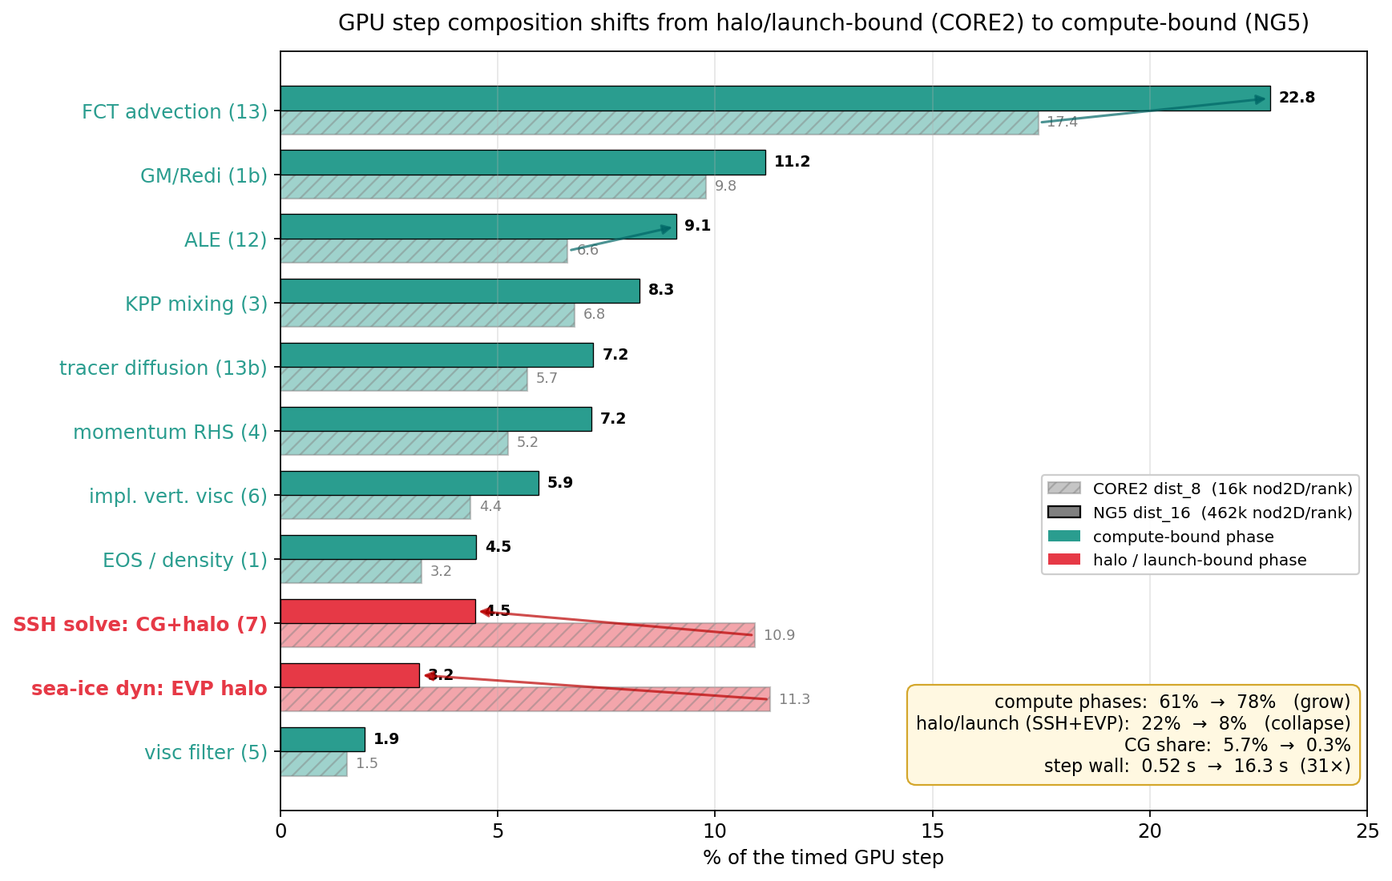
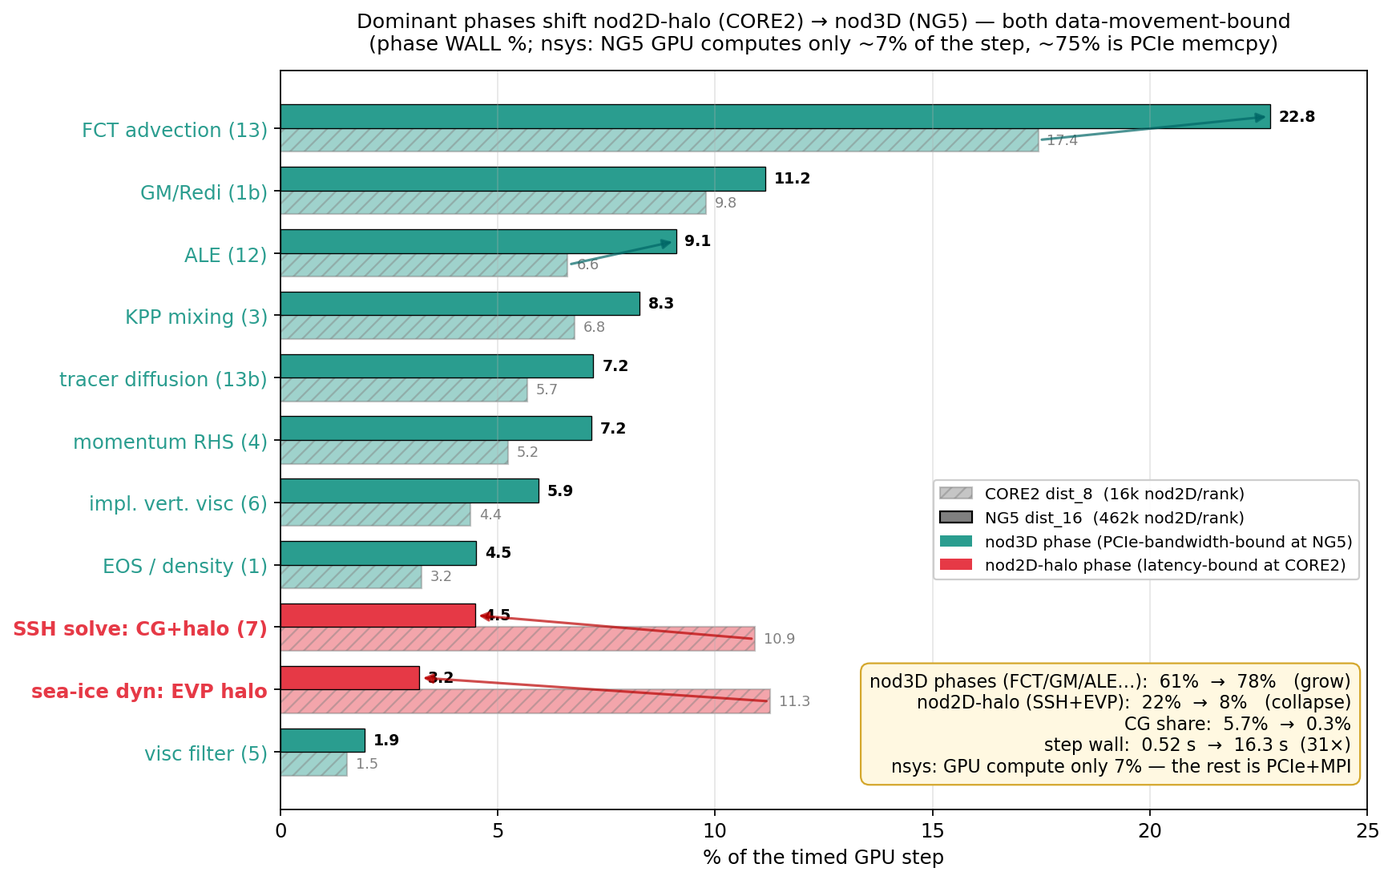
M5.12: CORRECT L56 — NG5 is PCIe-data-movement-bound, not compute-bound
nsys CUDA trace (kernels vs memcpy) on NG5 dist_16 rank0 (8 steps, job
25227869) settles the bottleneck question the per-phase WALL timer could
not: the GPU computes only 1.19 s/step (7%) and spends 12.74 s/step (75%)
blocked on full-field host<->device cudaMemcpy (PCIe). cudaMemcpy = 90.6%
of all CUDA API time; ~4575 transfers/step, H2D-dominant => host-staged
halos, not the (disabled) I/O gather.

This corrects the first L56 draft, which used only FESOM_STEP_PROFILE=1
phase WALLS and concluded 'compute/bandwidth-bound -> Lever C'. The phase
wall = kernel+PCIe+MPI together; it cannot separate compute from data
movement. The decisive number: FCT phase wall 3.708 s/step vs FCT kernels
0.338 s/step (nsys) = 11x more wall than compute = un-flipped full-field
PCIe halos. 'FCT scaled 41x linearly' is equally consistent with PCIe-bound
and proves neither. (Earlier ncu durations misread as us; they are ms.)

Production lever = DEVICE RESIDENCY: continue the M5.1/M5.4/M5.7 halo-flip
campaign into the NG5 3-D regime (FCT internals, GM chain, ALE, tracer-diff
-> fesom_halo_field; kill L39/L50 host-op syncs where a device twin exists).
Lever C (rank-1->View<double**> coalescing) stays shelved: it touches the 7%
compute, not the 75% PCIe. The 3.8x GPU/CPU gap is mostly reducible PCIe
overhead, not an intrinsic compute floor -> re-measure after the flips.

- docs/SCALING_NG5.md: rewrite the per-phase section with the nsys
[…]

diff --git a/scripts/plot_profile_regime.py b/scripts/plot_profile_regime.py
@@ -1,7 +1,9 @@
 #!/usr/bin/env python3
-"""GPU step composition: CORE2 dist_8 (16k nod2D/rank, launch/halo-bound) vs NG5 dist_16
-(462k nod2D/rank, compute-bound). Per-phase % of the timed step (FESOM_STEP_PROFILE=1).
+"""GPU step composition: CORE2 dist_8 (16k nod2D/rank, nod2D-halo-latency-bound) vs NG5 dist_16
+(462k nod2D/rank, nod3D-PCIe-bandwidth-bound). Per-phase % of the timed step (FESOM_STEP_PROFILE=1).
 CORE2 from docs/PROFILE_M59.md R1c; NG5 from the 2026-05-29 dist_16 profile.
+NB: these are phase WALL %shares (kernel+PCIe+MPI). nsys shows the GPU computes only ~7% of the
+NG5 step; the phases grew because their full-field PCIe halo syncs grew, NOT their compute.
 -> docs/figures/profile_regime_shift.png"""
 import matplotlib; matplotlib.use("Agg")
 import matplotlib.pyplot as plt
@@ -39,8 +41,9 @@ ax.set_yticks(y); ax.set_yticklabels(labels); ax.invert_yaxis()
 # color the y tick labels by regime
 for tl,t in zip(ax.get_yticklabels(),typ): tl.set_color(COMP if t=="compute" else HALO); tl.set_fontweight("bold" if t=="halo" else "normal")
 ax.set_xlabel("% of the timed GPU step"); ax.set_xlim(0,25)
-ax.set_title("GPU step composition shifts from halo/launch-bound (CORE2) to compute-bound (NG5)",
-             fontsize=12.5, pad=12)
+ax.set_title("Dominant phases shift nod2D-halo (CORE2) → nod3D (NG5) — both data-movement-bound\n"
+             "(phase WALL %; nsys: NG5 GPU computes only ~7% of the step, ~75% is PCIe memcpy)",
+             fontsize=11.5, pad=12)
 ax.grid(axis="x", alpha=0.3)
 
 # arrows on the two halo phases (the collapse) + a couple compute (the growth)
@@ -55,17 +58,18 @@ for lab,dirn in [("SSH solve: CG+halo (7)","dn"),("sea-ice dyn: EVP halo","dn"),
 # regime-sum callout box
 comp_c2=sum(r[1] for r in PH if r[3]=="compute"); comp_ng=sum(r[2] for r in PH if r[3]=="compute")
 halo_c2=sum(r[1] for r in PH if r[3]=="halo");    halo_ng=sum(r[2] for r in PH if r[3]=="halo")
-txt=(f"compute phases:  {comp_c2:.0f}%  →  {comp_ng:.0f}%   (grow)\n"
-     f"halo/launch (SSH+EVP):  {halo_c2:.0f}%  →  {halo_ng:.0f}%   (collapse)\n"
+txt=(f"nod3D phases (FCT/GM/ALE…):  {comp_c2:.0f}%  →  {comp_ng:.0f}%   (grow)\n"
+     f"nod2D-halo (SSH+EVP):  {halo_c2:.0f}%  →  {halo_ng:.0f}%   (collapse)\n"
      f"CG share:  5.7%  →  0.3%\n"
-     f"step wall:  0.52 s  →  16.3 s  (31×)")
+     f"step wall:  0.52 s  →  16.3 s  (31×)\n"
+     f"nsys: GPU compute only 7% — the rest is PCIe+MPI")
 ax.text(0.985,0.045,txt,transform=ax.transAxes,ha="right",va="bottom",fontsize=10,
         bbox=dict(boxstyle="round,pad=0.5",fc="#fff8e1",ec="#d4a72c"))
 
 leg=[Patch(fc="grey",alpha=0.45,hatch="///",ec="grey",label="CORE2 dist_8  (16k nod2D/rank)"),
      Patch(fc="grey",alpha=1.0,ec="black",label="NG5 dist_16  (462k nod2D/rank)"),
-     Patch(fc=COMP,label="compute-bound phase"),
-     Patch(fc=HALO,label="halo / launch-bound phase")]
+     Patch(fc=COMP,label="nod3D phase (PCIe-bandwidth-bound at NG5)"),
+     Patch(fc=HALO,label="nod2D-halo phase (latency-bound at CORE2)")]
 ax.legend(handles=leg, loc="lower right", bbox_to_anchor=(1.0,0.30), fontsize=9, framealpha=0.95)
 fig.tight_layout()
 fig.savefig("docs/figures/profile_regime_shift.png", bbox_inches="tight")

diff --git a/docs/SCALING_NG5.md b/docs/SCALING_NG5.md
@@ -65,6 +65,12 @@ the mesh from dars (3.16M) to NG5 (7.4M) — and adding 49 % more levels (47→7
 ~0.3× more. **The floor for this FESOM-Kokkos port on Levante A100 is ~3.6–3.8× slower per node
 than EPYC**, reached by dars-class meshes. Bigger meshes than NG5 will not meaningfully close it.
 
+> **⚠ Caveat (see § nsys decomposition below):** "3.6–3.8×" is the floor *at the current
+> device-residency*, NOT an intrinsic compute floor. nsys shows the NG5 GPU spends ~75 % of each
+> step blocked on full-field PCIe `cudaMemcpy` (un-flipped 3-D halos) and only ~7 % computing.
+> That PCIe overhead is reducible (device-residency / halo flips); the ratio should be
+> re-measured after the NG5 halo-flip campaign, not treated as fixed.
+
 ## Per-rank vs OMEGA's A100 sweet spot (~250k nod2D/rank)
 
 | Run (GPU)   | nod2D/rank | vs OMEGA sweet spot |
@@ -106,12 +112,49 @@ asymptoting. Per-watt parity remains unreachable on Levante A100 for full-physic
   2-node CPU point, run dist_256 at ≤64 ranks/node (≥4 nodes) — but that breaks node-for-node.
 - All runnable points stable over 35 steps (T ∈ [0.4, 30.2] °C, S ∈ [30.8, 36.6] PSU); no NaN.
 
-## Per-phase profile — THE OPTIMIZATION REGIME SHIFTS WITH MESH SIZE (2026-05-29)
+## Per-phase profile + nsys decomposition — NG5 IS PCIe-DATA-MOVEMENT-BOUND (2026-05-29)
 
-Re-profiled NG5 GPU with `FESOM_STEP_PROFILE=1` (per-phase + Kokkos per-kernel) at dist_16
-(462k nod2D/rank — well above the OMEGA sweet spot). dist_8 (926k/rank) OOM'd the A100 in
-profile mode (`kpp.viscA` alloc; the scaling run barely fit → 926k/rank IS the 80 GB device
-ceiling). Job `25225499`; loop 16.29 s/step (profile mode, ~fence overhead), ocean **84.6 %**.
+> **⚠ CORRECTION (supersedes the first draft of this section).** The first pass used the
+> `FESOM_STEP_PROFILE=1` per-phase *wall* timer and concluded NG5 was "compute/bandwidth-bound"
+> → Lever C. That was WRONG. The per-phase timer measures *phase wall* = kernel + PCIe-sync +
+> MPI *together*; it cannot tell compute from data-movement inside a phase. An `nsys` CUDA
+> trace (kernels **vs** memcpy, the decisive instrument) shows the GPU **computes only ~7 % of
+> the step** and spends **~75 % blocked on full-field host↔device `cudaMemcpy` (PCIe)**. NG5 is
+> **data-movement-bound**, the same class as the M5.3-era CORE2 wall — just bigger. Lever C
+> (kernel coalescing) would touch only the 7 % and is NOT the production lever.
+
+**nsys CUDA trace, NG5 dist_16, rank 0, 8 developed steps (job `25227869`, snapshots OFF):**
+
+| step component                         | s/step | % of 16.94 s step |
+|:---------------------------------------|-------:|------------------:|
+| **PCIe `cudaMemcpy` H2D**              | 8.13   | 48 %              |
+| **PCIe `cudaMemcpy` D2H**              | 4.61   | 27 %              |
+| MPI / `cudaDeviceSynchronize` / host   | 3.01   | 18 %              |
+| **GPU kernels (all compute)**          | 1.19   | **7 %**           |
+
+- `cudaMemcpy` = **90.6 %** of all CUDA API time (102 s / 8 steps, blocking). **~4 575 PCIe
+  transfers/step** (2 842 H2D + 1 733 D2H), max single = 327–355 ms (full-field). H2D-dominant
+  (63.8 %) ⇒ this is **halo unpack + re-push (`sync_host`→MPI→`sync_device`)**, not the rank-0
+  I/O gather (that would be D2H, and I/O was disabled).
+- GPU **busy 7 %, idle 93 %.** The idle is PCIe (75 %) + MPI/sync (18 %).
+
+**Within the 7 % GPU compute** (nsys kernel sum, grouped):
+
+| kernel group                | % of GPU compute | ms/step |
+|:----------------------------|-----------------:|--------:|
+| smoother (bvfreq + KPP blmc)| 30.4 %           | 361     |
+| FCT advection               | 28.5 %           | 338     |
+| momentum / ALE / KPP-mix    | 16.3 %           | 194     |
+| GM/Redi · EOS/PGF · SSH/CG  | ~6 %             | 73      |
+
+Smoother + FCT = 59 % of compute, but compute is only 7 % of the step, so each is ≈ 2 % of wall.
+Per `ncu --set basic`, the FCT and GM kernels are **memory-leaning** (SOL Memory ~50–58 %,
+Compute ~4–5 %, occupancy ~50–60 %) — real, but irrelevant while they're 7 % of the step.
+*(The earlier ncu read reported these as µs; that was a unit misread — they are ms-scale, per
+the authoritative in-situ nsys trace. The SOL bound-labels were correct; only the durations were
+wrong.)*
+
+### The per-phase wall table (job `25225499`) — still valid as phase composition
 
 | phase            | CORE2 dist_8 %loop | NG5 dist_16 %loop | NG5 abs s/step |
 |:-----------------|-------------------:|------------------:|---------------:|
@@ -127,31 +170,42 @@ ceiling). Job `25225499`; loop 16.29 s/step (profile mode, ~fence overhead), oce
 | **ice_dyn (EVP halo)** | **11.3 %**   | **3.2 %**         | 0.522          |
 | CG share         | 5.7 %              | **0.3 %**         | —              |
 
-**The regime flips from launch/halo-bound (CORE2) to compute/bandwidth-bound (NG5).** At CORE2
-the dominant phases were **SSH (CG+halo, 10.9 %) and ice_dyn (EVP per-subcycle halo, 11.3 %)** —
-both halo/launch-overhead-bound, growing with rank count (M5.12's targets). At NG5 those collapse
-to **4.5 % and 3.2 %** (CG just 0.3 %), and the **compute-heavy 3-D ocean kernels take over**:
-FCT + GM + ALE + KPP + tracer-diff + momentum-RHS + impl-visc ≈ **72 %** of the step.
+The dominant phases shift from CORE2's **nod2D-halo** phases (SSH 10.9 %, ice_dyn/EVP 11.3 %) to
+NG5's **nod3D** phases (FCT 22.8 %, GM 11.2 %, ALE 9.1 %, KPP 8.3 %). But the *mechanism* is the
+same in both: **host↔device data movement**, not compute.
 
-**Proof it's compute/bandwidth-bound, not overhead:** the FCT phase scaled **41× (0.090 → 3.708
-s/step) for 43× more per-rank work** — essentially linear. At CORE2 only ~5.5 % of the step was
-in actual FCT kernels (rest = host/fence/halo between launches); at NG5 it's genuinely the GPU
-grinding through 32 M nod3D cells/rank.
+> **The decisive number:** the FCT *phase wall* is 3.708 s/step but FCT *kernels* are only
+> 0.338 s/step (nsys) — **11× more wall than compute.** That ~3.3 s gap is the FCT phase's
+> full-field PCIe halo syncs (the internal halos not yet device-flipped). The "FCT scaled 41×
+> linearly" observation is **equally consistent with PCIe-bound** (a 43× bigger field ⇒ 43×
+> bigger memcpy) and is therefore NOT evidence of compute-bound. nsys settles it: PCIe.
 
-### Implication — the M5.12 conclusion is REGIME-SCOPED
+So the regime shift is real but it is **nod2D-halo-latency-bound (CORE2) → nod3D-PCIe-bandwidth-
+bound (NG5)** — two flavors of the same data-movement wall, *not* "launch-bound → compute-bound."
 
-The M5.12 launch-fusion levers (f reverted, d +0.7 %, b +0.6 %; L53–L55) optimized the **CORE2
-development regime**, where launch density + halos dominate. **At production scale (dars/NG5)
-they are nearly irrelevant** — the wall is per-kernel compute/bandwidth in FCT/GM/ALE/diffusion/
-momentum. **The right production lever is the one M5.10b/Lever C tried and abandoned at 1.3 % —
-the rank-1 → `View<double**>` coalesced memory layout + OMEGA's vertical-scratch TeamPolicy —
-which failed precisely because CORE2's kernels were NOT bandwidth-bound. At NG5 they are.** A
-scoped Lever-C retry on the FCT/GM hot kernels, validated at dars/NG5 (not CORE2), is the
-M5.13 candidate. **Next: `ncu` on the top NG5 kernels** (FCT, GM) for the bound labels
-(% peak DRAM bandwidth, achieved occupancy, stall reasons) to size the opportunity.
+### Implication — the production lever is DEVICE RESIDENCY, not Lever C
+
+The M5.12 launch-fusion levers (f reverted, d +0.7 %, b +0.6 %; L53–L55) optimized CORE2's
+nod2D-halo-latency regime and are nearly irrelevant at NG5. **The production lever is to kill
+the ~12.8 s/step of PCIe — i.e. continue the M5.1/M5.4/M5.7 device-residency / halo-flip
+campaign into the NG5 3-D regime:** flip the remaining host-staged nod3D halos (FCT internals,
+GM chain, ALE, tracer-diff) to `fesom_halo_field` (GPU-aware MPI, no full-field PCIe), and
+eliminate the host-op syncs (the L39 salinity floor, L50 uvnode) where a device twin is viable.
+Each un-flipped 3-D halo that was PCIe-cheap at CORE2 (16k/rank) is a full-field 259 MB sync at
+NG5 (462k/rank); the M5.4 campaign flipped CORE2's *big* halos and left many that balloon here.
+
+**Consequence for the headline ratio:** the **3.8× GPU/CPU gap is mostly reducible PCIe
+overhead, not an intrinsic compute floor.** The GPU wastes 75 % of every step on host↔device
+copies; closing even half of that would move NG5 toward ~2× (and per-watt accordingly). The
+"~3.6–3.8× floor" / "per-watt unreachable" conclusions above are therefore **upper bounds on the
+*current* device-residency, not hard limits** — they should be re-measured after the NG5 halo
+flips. Lever C (rank-1 → `View<double**>` coalescing) stays shelved: it improves the 7 %, not
+the 75 %.
 
 ---
 
 *Generated 2026-05-29. Companion: `docs/SCALING_CORE2.md`, `docs/SCALING_FARC.md`,
 `docs/SCALING_DARS.md`, `docs/PROFILE_M59.md`. Figures: `docs/figures/scaling_*.png`,
-`docs/figures/profile_regime_shift.png` (CORE2-vs-NG5 per-phase composition).*
+`docs/figures/nsys_ng5_breakdown.png` (the corrected step decomposition — PCIe 75 % / GPU 7 %),
+`docs/figures/profile_regime_shift.png` (per-phase composition; read as data-movement shift, not
+compute).*

diff --git a/docs/KOKKOS_PORTING_LESSONS.md b/docs/KOKKOS_PORTING_LESSONS.md
@@ -353,7 +353,7 @@ still apply; this file adds the **C→Kokkos / CPU↔GPU** layer.
 
 - **L55 — M5.12b (2026-05-28) + the M5.12 fusion-campaign retrospective: kernel-launch fusion caps at <1% per lever, because the removable per-launch OVERHEAD is only ~6-7µs (not the ~13µs per-call time, most of which is compute the fusion does NOT remove). The real throughput lever is mesh size, not launch count.** M5.12b fused the 7 EVP per-subcycle kernels into **3** (zero / stress+scatter / node-update), saving **480 launches/step** — the single biggest launch cut available — yet measured only **+0.61%** (same-allocation CORE2 dist_8). The arithmetic: 480 × ~6.5µs ≈ 3ms on a ~480ms step ≈ 0.6%, exactly as measured. **The whole fusion campaign confirms the cap**: f (CG, ~110 launches in a 1-5%-of-step solver) **−0.78% → reverted** (L53); d (smoother, 12 big bandwidth-bound launches) **+0.73%** (L54); b (EVP, 480 small launches) **+0.61%**. The launch-density wall (L52, 2450 launches/step) is real, but *reducing* it yields diminishing returns because per-launch overhead is small and the kernels' compute/bandwidth dominates their wall-time. The remaining M5.12 levers (g halo-aggregation, e Kokkos::Graph, h FCT) target the same overhead → also sub-1% each; **M5.12 cumulative is ~3-4%, not the planned 10-15%.** Per `docs/SCALING_DARS.md` the dominant lever is **mesh size** (CORE2 7× → dars 4.1× GPU/CPU gap, zero code) — production at dars/NG5-class meshes already recovers ~half the gap. **The b implementation is also a reusable pattern**: fuse adjacent SAME-INDEX-SPACE kernels (element+element, node+node) keeping each entity's read set local and the scatter in entity order → Serial bit-identical with NO team scratch and NO atomic reorder (verified: evp + all 5 ice keys max|Δ|==0, full-model CORE2 ALL FIELDS BIT-IDENTICAL, M3.2 skipped because the math is unchanged). This is strictly safer than the team-scratch-partial-sum approach the original M512_PLAN proposed (which reorders the scatter → breaks bit-identity → forces M3.2). Plan §M5.12b §RESULT.
 
-- **L56 — M5.12/NG5 (2026-05-29): the GPU optimization REGIME is mesh-size-dependent — CORE2 (dev) is launch/halo-bound, NG5/dars (production) is compute/bandwidth-bound — so the M5.12 launch-fusion conclusion is SCOPED to the dev regime and the production lever is the opposite one (Lever C).** Re-profiling NG5 dist_16 (462k nod2D/rank, `FESOM_STEP_PROFILE=1`) vs CORE2 dist_8 (16k/rank): the phases that dominated CORE2 because they're halo/launch-overhead-bound — **SSH (CG+halo) 10.9 % and ice_dyn (EVP per-subcycle halo) 11.3 %, CG 5.7 %** — COLLAPSE at NG5 to **4.5 %, 3.2 %, 0.3 %**. The compute-heavy 3-D ocean kernels take over: **FCT 22.8 %, GM 11.2 %, ALE 9.1 %, KPP 8.3 %, tracer-diff 7.2 %, vel-RHS 7.2 %, impl-visc 5.9 % ≈ 72 % of the step.** Proof it's compute/bandwidth-bound (not overhead): the **FCT phase scaled 41× (0.090 → 3.708 s/step) for 43× more per-rank work — linear**; at CORE2 only ~5.5 % of the step was actual FCT kernel time (rest host/fence/halo between launches). **Consequence: the M5.12 fusion levers (f reverted, d +0.7 %, b +0.6 %; L53–L55) optimized the CORE2 dev regime and are nearly irrelevant at production scale. The right production lever is the rank-1 → `View<double**>` coalesced layout + OMEGA vertical-scratch TeamPolicy — i.e. M5.10b/Lever C, which "failed" at 1.3 % ONLY because CORE2's kernels weren't bandwidth-bound. At NG5 they are.** A scoped Lever-C retry on FCT/GM, validated at dars/NG5 (NOT CORE2), is the M5.13 candidate; `ncu` bound labels on the top NG5 kernels are the next datum. **General rule: profile the optimization target at the PRODUCTION mesh size, not the fast dev mesh — the bottleneck (and therefore the right lever) changes.** ⚠ dist_8 GPU (926k nod2D/rank) is the A100-80GB device-memory ceiling (profile-mode run OOM'd on `kpp.viscA`; scaling run barely fit). See `docs/SCALING_NG5.md` § Per-phase profile + `docs/figures/scaling_*.png`.
+- **L56 — M5.12/NG5 (2026-05-29, CORRECTED): at production mesh size NG5 is PCIe-DATA-MOVEMENT-bound (GPU computes only ~7 % of the step, ~75 % is full-field host↔device `cudaMemcpy`) — so the production lever is DEVICE RESIDENCY (continue the M5.1/M5.4/M5.7 halo-flip campaign into the 3-D regime), NOT Lever C, NOT launch-fusion.** ⚠ This corrects an earlier draft of L56 that — using only the `FESOM_STEP_PROFILE=1` per-phase *wall* timer — concluded "NG5 is compute/bandwidth-bound → Lever C." That was a **methodology error**: the per-phase timer measures phase *wall* = kernel + PCIe-sync + MPI together and cannot separate compute from data-movement inside a phase. The decisive instrument is an `nsys` CUDA trace (kernels **vs** memcpy). nsys on NG5 dist_16 rank 0 (8 steps, job `25227869`, snapshots off, 16.94 s/step): **GPU kernels = 1.19 s/step = 7 %; PCIe `cudaMemcpy` = 12.74 s/step = 75 %** (H2D 8.13 + D2H 4.61; `cudaMemcpy` = 90.6 % of all CUDA API time, ~4 575 transfers/step, max single 327–355 ms full-field, H2D-dominant ⇒ halo unpack/re-push not I/O); MPI/sync/host = 18 %. The "FCT scaled 41× linearly" claim was NOT proof of compute-bound — PCIe full-field syncs scale with volume identically; nsys settles it: **the FCT *phase wall* is 3.708 s/step but FCT *kernels* are only 0.338 s/step → 11× more wall than compute, the gap being full-field PCIe halo syncs.** Within the 7 % compute: smoother 30 %, FCT 28 %, momentum/ALE/KPP 16 %, GM/EOS/SSH ~6 % — all memory-leaning per `ncu --set basic` (SOL Memory ~50–58 %), but irrelevant at 7 % of the step (Lever C touches the 7 %, not the 75 %). The regime shift CORE2→NG5 is real but it is **nod2D-halo-latency-bound → nod3D-PCIe-bandwidth-bound** (two flavors of the *same* data-movement wall), not "launch-bound → compute-bound." **Lever:** flip the remaining host-staged nod3D halos (FCT internals, GM chain, ALE, tracer-diff) to `fesom_halo_field`, eliminate host-op syncs (L39 salinity floor, L50 uvnode) where a device twin exists — each un-flipped halo cheap at CORE2 (16k/rank) is a full-field 259 MB sync at NG5 (462k/rank). **The 3.8× GPU/CPU gap is mostly this reducible PCIe overhead, NOT an intrinsic compute floor** — re-measure after the flips. **Two sub-lessons: (1) the per-phase WALL timer can't tell compute from PCIe inside a phase — use nsys kernel-vs-memcpy to attribute a bottleneck; linear scaling-with-volume is consistent with BOTH compute- and PCIe-bound and proves neither. (2) profile at the PRODUCTION mesh, not the fast dev mesh — the dominant phase changes (here from nod2D to nod3D), though the underlying wall — data movement — does not.** ⚠ Earlier ncu read reported the FCT/GM kernel durations as µs; that was a unit misread — they are ms-scale per the in-situ nsys trace (the SOL bound-labels were correct; only durations wrong). ⚠ dist_8 GPU (926k nod2D/rank) is the A100-80GB device-memory ceiling (profile-mode run OOM'd on `kpp.viscA`; scaling run barely fit). See `docs/SCALING_NG5.md` § nsys decomposition + `docs/figures/nsys_ng5_breakdown.png`.
 
 ---
 

diff --git a/docs/KOKKOS_HANDOFF.md b/docs/KOKKOS_HANDOFF.md
@@ -3,7 +3,7 @@
 **Session 21 (2026-05-28→29) — M5.12 fusion campaign (f reverted, d+b landed, thesis CAPPED) + NG5 7.4M scaling + a deep-mesh bug fix.**
 Branch `m512-fusion` off `profile-m511 @ 11b33af`; commits `4dabaac` (f), `09b27a8`+`f70f247` (d), `43e67a8` (handoff), `9d13295`+`5ed7b65` (b), **`328536c` (deep-mesh fix + NG5 harness)**.
 Plan: `docs/plans/20260528-m512-fusion.md` (§RESULT f+d+b). Lessons L53 (f), L54 (d), L55 (campaign cap). Scaling: **`docs/SCALING_NG5.md`**.
-**Bottom line: (1) launch fusion caps at <1%/lever (L55); (2) the mesh-size lever ASYMPTOTES — CORE2 8.9× → farc 5.5× → dars 4.1× → NG5 3.8× (node-for-node GPU/CPU), increments collapsing (−3.4,−1.4,−0.3) → ~3.6-3.8× is the Levante-A100 floor for this port, reached by dars-class meshes. Bigger meshes won't close it. (Trend ratios are Kokkos-CUDA/Kokkos-Serial; the 8.9×/5.5× were vs the faster C-port — see `docs/figures/scaling_*.png` which use the consistent Kokkos/Kokkos 5.3×→3.8×.) (3) THE REGIME SHIFTS WITH MESH SIZE (L56): NG5 profile (dist_16) is COMPUTE/bandwidth-bound (FCT 22.8%, GM 11%, ALE 9%, KPP 8%, trdiff/velrhs 7%, ivisc 6% ≈ 72%; FCT scales LINEARLY 41×/43×-work), NOT launch/halo-bound like CORE2 (where SSH+ice_dyn+CG ≈ 28% collapse to <8% at NG5). → the M5.12 fusion levers are dev-regime; the PRODUCTION lever is Lever C (rank-1→View<double**> coalescing + OMEGA vertical-scratch TeamPolicy) which "failed" at CORE2 (1.3%) only because CORE2 wasn't bandwidth-bound. M5.13 = scoped Lever-C retry on FCT/GM validated at dars/NG5; next datum = ncu bound labels on the NG5 top kernels.**
+**Bottom line: (1) launch fusion caps at <1%/lever (L55); (2) the mesh-size lever ASYMPTOTES — CORE2 8.9× → farc 5.5× → dars 4.1× → NG5 3.8× (node-for-node GPU/CPU), increments collapsing (−3.4,−1.4,−0.3). BUT ⚠ "3.6-3.8×" is the floor AT THE CURRENT DEVICE-RESIDENCY, not an intrinsic compute floor — see (3). (Trend ratios are Kokkos-CUDA/Kokkos-Serial; the 8.9×/5.5× were vs the faster C-port — see `docs/figures/scaling_*.png` which use the consistent Kokkos/Kokkos 5.3×→3.8×.) (3) ⚠⚠ L56 CORRECTED — NG5 IS PCIe-DATA-MOVEMENT-BOUND, NOT compute-bound. The first L56 draft used only the per-phase WALL timer (`FESOM_STEP_PROFILE=1`) and wrongly concluded "compute-bound → Lever C." An `nsys` CUDA trace (kernels vs memcpy — the decisive instrument; NG5 dist_16 rank0, 8 steps, job `25227869`, 16.94 s/step) shows: GPU KERNELS = 1.19 s/step = 7%; PCIe `cudaMemcpy` = 12.74 s/step = 75% (H2D 8.13+D2H 4.61; cudaMemcpy=90.6% of CUDA API, ~4575 transfers/step, H2D-dominant ⇒ host-staged halos not I/O); MPI/sync 18%. The "FCT scaled 41× linearly" was NOT proof of compute-bound (PCIe full-field syncs scale with volume identically): the FCT *phase wall* 3.708 s/step vs FCT *kernels* 0.338 s/step = 11× more wall than compute = the un-flipped full-field PCIe halos. → The PRODUCTION lever is DEVICE RESIDENCY: continue the M5.1/M5.4/M5.7 halo-flip campaign into the NG5 3-D regime (flip the remaining host-staged nod3D halos: FCT internals, GM chain, ALE, tracer-diff → `fesom_halo_field`; kill host-op syncs L39/L50 where a device twin exists). Lever C (rank-1→View<double**> coalescing) stays SHELVED — it improves the 7% compute, not the 75% PCIe. The 3.8× gap is mostly REDUCIBLE PCIe; re-measure after the flips. Figs `docs/figures/nsys_ng5_breakdown.png` + `profile_regime_shift.png`. (⚠ earlier ncu read reported FCT/GM durations as µs — a unit misread; they're ms-scale per nsys; the SOL memory-leaning labels were correct.)**
 - **NG5 (7.4M nodes, 70 levels) strong-scaling DONE** (commit `328536c`; `docs/SCALING_NG5.md`). GPU dist_8/16/32/64 = 30.4/16.3/8.70/4.51 s/step; CPU dist_512/1024/2048 = 4.33/2.24/1.17 s/step (dist_256 CPU OOM at 128 ranks/node). **Node-for-node GPU/CPU = 3.8×** (stable 4/8/16N); strong-scaling 93–96%/doubling both sides. Binary = m512-fusion (GPU+CPU); dars/farc/CORE2 = M5.11 (<1.3% delta, negligible). dt=180, snap_every=-1 (no I/O).
 - **⚠ DEEP-MESH FIX (`328536c`) — NG5's nl=70 exposed 2 latent "never tested past ~48 levels" bugs**, both fixed (a future ≥48-level mesh on ANY backend would have hit #1): **(1) stack-buffer-overflow** — per-column scratch hardcoded `[64]` (eos host+device) / `NL_MAX`/`KPP_NL_MAX=64` enums (momentum/gm/kpp/tracer_adv/tracer_diff), sized for CORE2/dars ~48; nl=70 wrote past the frame → segfault in `fesom_pressure_bv` (ASAN-localized). Fix = project-wide `FESOM_MAX_LEVELS=128` (`fesom_types.h`) at every site + `nl<=FESOM_MAX_LEVELS` guard at mesh load; bit-identity preserved (pi verify max|Δ|==0). **(2) rank-0 I/O gather OOM** (~66 GB at NG5; the step-0 snapshot mallocs 17 global buffers on rank0) → scaling runs use `snap_every=-1`; **production NG5 snapshots still need parallel I/O / single-buffer-reuse (OPEN).**
 - **M5.12f-1 (CG-dot View-reducer) — REVERTED, perf-neutral (L53).** Converted the 2 in-loop CG
